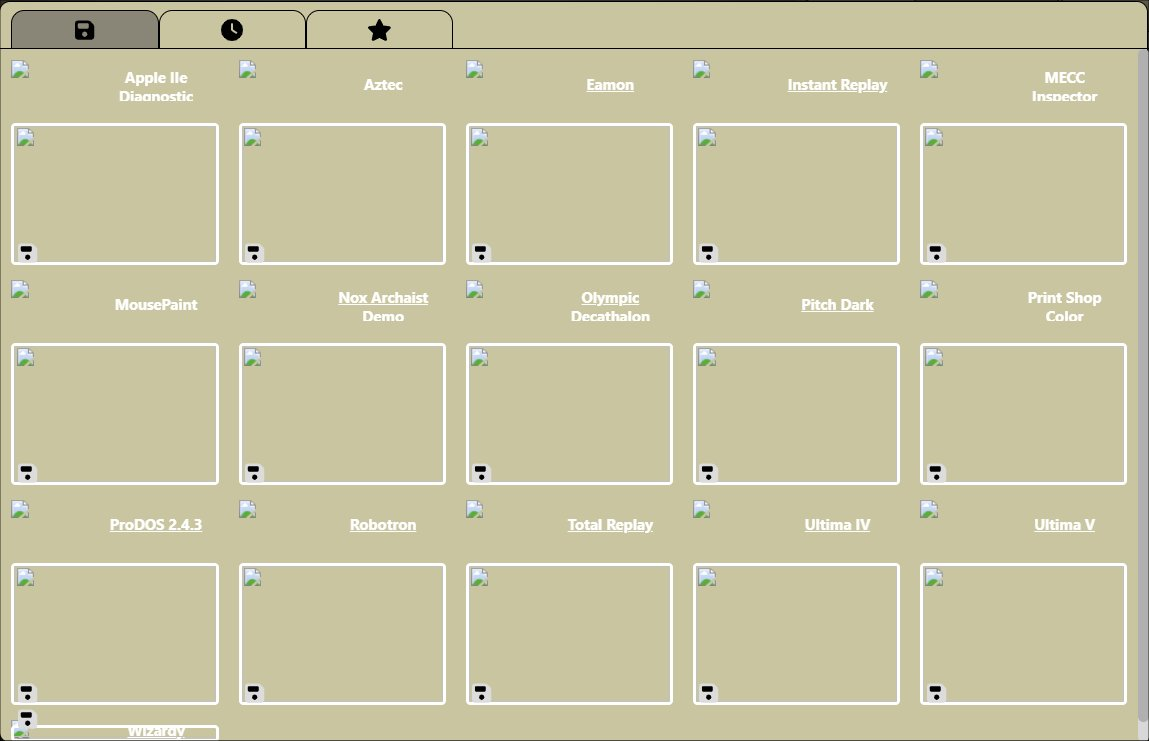
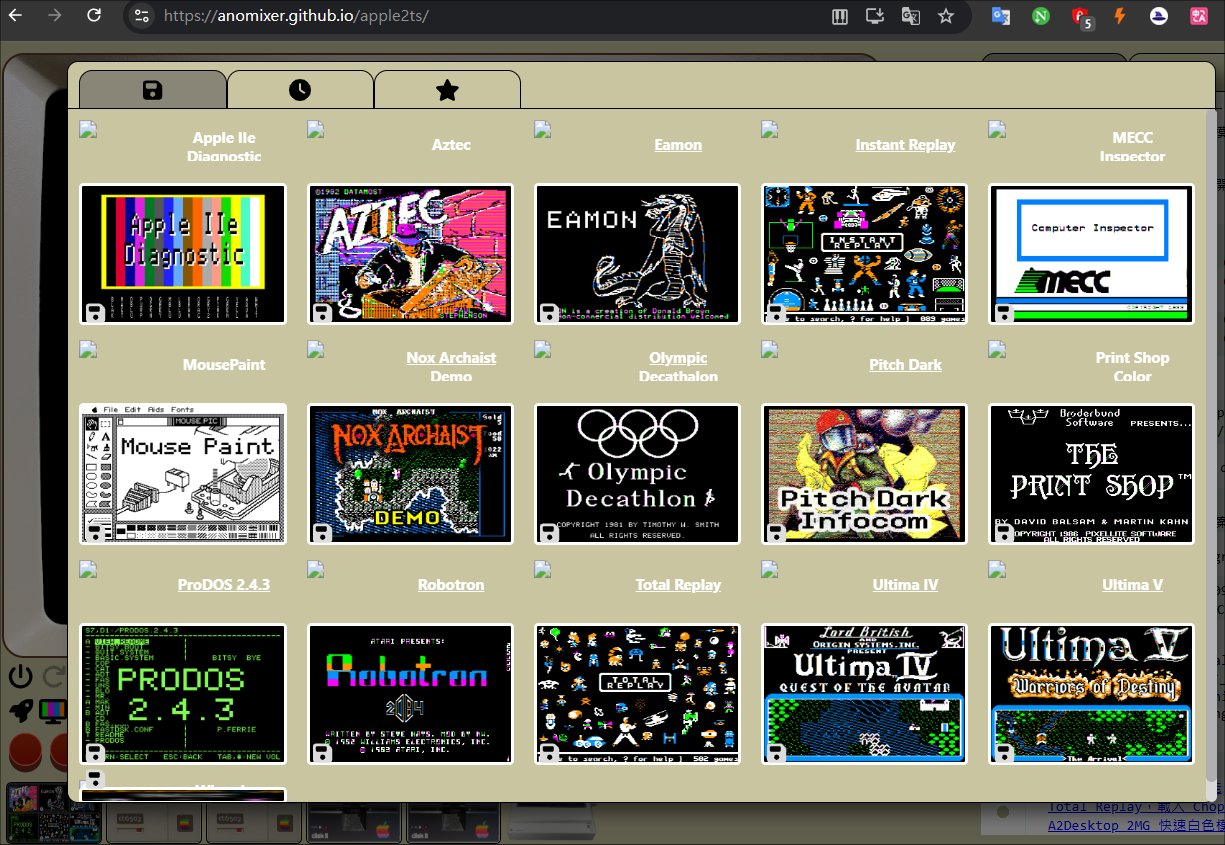
Fix disk loading mechanism for GitHub Pages
Critical fixes:
1. Revert diskUrl in diskimages.ts back to filename only (not full paths)
2. Fix handleSetDiskFromFile to use BASE_URL for disk and help file fetching
3. Keep image URLs using getImageUrl helper with BASE_URL
4. This maintains the original architecture while fixing GitHub Pages paths

The issue was that diskUrl should contain filename only, and handleSetDiskFromFile
adds the proper base path. The previous approach broke the disk loading logic.

diff --git a/src/ui/devices/disk/diskimages.ts b/src/ui/devices/disk/diskimages.ts
@@ -4,22 +4,17 @@ const getImageUrl = (path: string) => {
   return new URL(base + path, window.location.origin)
 }
 
-const getDiskUrl = (filename: string) => {
-  const base = import.meta.env.BASE_URL || '/'
-  return base + 'disks/' + filename
-}
-
 export const diskImages: DiskCollectionItem[] = [
   {
     title: "Aztec",
-    diskUrl: getDiskUrl("Aztec.po"),
+    diskUrl: "Aztec.po",
     imageUrl: getImageUrl("disks/Aztec.png"),
     type: undefined,
     lastUpdated: new Date(0),
   },
   {
     title: "Eamon",
-    diskUrl: getDiskUrl("Eamon%201.po"),
+    diskUrl: "Eamon%201.po",
     imageUrl: getImageUrl("disks/Eamon%201.png"),
     detailsUrl: new URL("https://eamon.wiki/Source:Eamon_Player%27s_Manual_(revised)"),
     type: undefined,
@@ -27,21 +22,21 @@ export const diskImages: DiskCollectionItem[] = [
   },
   {
     title: "Apple IIe Diagnostic",
-    diskUrl: getDiskUrl("Apple IIe Diagnostic 2.1.po"),
+    diskUrl: "Apple IIe Diagnostic 2.1.po",
     imageUrl: getImageUrl("disks/Apple IIe Diagnostic 2.1.png"),
     type: undefined,
     lastUpdated: new Date(0),
   },
   {
     title: "MECC Inspector",
-    diskUrl: getDiskUrl("MECC-Inspector.woz"),
+    diskUrl: "MECC-Inspector.woz",
     imageUrl: getImageUrl("disks/MECC-Inspector.png"),
     type: undefined,
     lastUpdated: new Date(0),
   },
   {
     title: "MousePaint",
-    diskUrl: getDiskUrl("MousePaint.woz"),
+    diskUrl: "MousePaint.woz",
     imageUrl: getImageUrl("disks/MousePaint.png"),
     type: undefined,
     lastUpdated: new Date(0),
@@ -49,7 +44,7 @@ export const diskImages: DiskCollectionItem[] = [
   },
   {
     title: "Nox Archaist Demo",
-    diskUrl: getDiskUrl("Nox%20Archaist%20Demo.hdv"),
+    diskUrl: "Nox%20Archaist%20Demo.hdv",
     imageUrl: getImageUrl("disks/Nox%20Archaist%20Demo.png"),
     detailsUrl: new URL("https://noxarchaist.com"),
     type: undefined,
@@ -57,7 +52,7 @@ export const diskImages: DiskCollectionItem[] = [
   },
   {
     title: "Olympic Decathalon",
-    diskUrl: getDiskUrl("Olympic%20Decathlon.woz"),
+    diskUrl: "Olympic%20Decathlon.woz",
     imageUrl: getImageUrl("disks/Olympic%20Decathlon.png"),
     detailsUrl: new URL("https://archive.org/details/microsoft-olympic-decathlon-a2-ph/"),
     type: undefined,
@@ -65,14 +60,14 @@ export const diskImages: DiskCollectionItem[] = [
   },
   {
     title: "Print Shop Color",
-    diskUrl: getDiskUrl("Print%20Shop%20Color.po"),
+    diskUrl: "Print%20Shop%20Color.po",
     imageUrl: getImageUrl("disks/Print%20Shop%20Color.png"),
     type: undefined,
     lastUpdated: new Date(0),
   },
   {
     title: "ProDOS 2.4.3",
-    diskUrl: getDiskUrl("ProDOS%202.4.3.po"),
+    diskUrl: "ProDOS%202.4.3.po",
     imageUrl: getImageUrl("disks/ProDOS%202.4.3.png"),
     detailsUrl: new URL("https://prodos8.com/"),
     type: undefined,
@@ -80,7 +75,7 @@ export const diskImages: DiskCollectionItem[] = [
   },
   {
     title: "Robotron",
-    diskUrl: getDiskUrl("Robotron4Joy.po"),
+    diskUrl: "Robotron4Joy.po",
     imageUrl: getImageUrl("disks/Robotron4Joy.png"),
     detailsUrl: new URL("https://groups.google.com/g/comp.sys.apple2/c/2xlihijn82o/"),
     type: undefined,
@@ -88,7 +83,7 @@ export const diskImages: DiskCollectionItem[] = [
   },
   {
     title: "Total Replay",
-    diskUrl: getDiskUrl("Total%20Replay.hdv"),
+    diskUrl: "Total%20Replay.hdv",
     imageUrl: getImageUrl("disks/Total%20Replay.png"),
     detailsUrl: new URL("https://archive.org/details/TotalReplay"),
     type: undefined,
@@ -96,7 +91,7 @@ export const diskImages: DiskCollectionItem[] = [
   },
   {
     title: "Instant Replay",
-    diskUrl: getDiskUrl("Instant%20Replay.hdv"),
+    diskUrl: "Instant%20Replay.hdv",
     imageUrl: getImageUrl("disks/Instant%20Replay.png"),
     detailsUrl: new URL("https://github.com/a2-4am/4sports"),
     type: undefined,
@@ -104,7 +99,7 @@ export const diskImages: DiskCollectionItem[] = [
   },
   {
     title: "Pitch Dark",
-    diskUrl: getDiskUrl("Pitch%20Dark.hdv"),
+    diskUrl: "Pitch%20Dark.hdv",
     imageUrl: getImageUrl("disks/Pitch%20Dark.png"),
     detailsUrl: new URL("https://archive.org/details/PitchDark"),
     type: undefined,
@@ -112,7 +107,7 @@ export const diskImages: DiskCollectionItem[] = [
   },
   {
     title: "Ultima IV",
-    diskUrl: getDiskUrl("Ultima%20IV.hdv"),
+    diskUrl: "Ultima%20IV.hdv",
     imageUrl: getImageUrl("disks/Ultima%20IV.png"),
     detailsUrl: new URL("https://wiki.ultimacodex.com/wiki/Ultima_IV:_Quest_of_the_Avatar"),
     type: undefined,
@@ -120,7 +115,7 @@ export const diskImages: DiskCollectionItem[] = [
   },
   {
     title: "Ultima V",
-    diskUrl: getDiskUrl("Ultima%20V.hdv"),
+    diskUrl: "Ultima%20V.hdv",
     imageUrl: getImageUrl("disks/Ultima%20V.png"),
     detailsUrl: new URL("https://wiki.ultimacodex.com/wiki/Ultima_V:_Warriors_of_Destiny"),
     type: undefined,
@@ -128,7 +123,7 @@ export const diskImages: DiskCollectionItem[] = [
   },
   {
     title: "Wizardy Replay v1.1",
-    diskUrl: getDiskUrl("Wizard%20Replay%20v1.1.hdv"),
+    diskUrl: "Wizard%20Replay%20v1.1.hdv",
     imageUrl: getImageUrl("disks/Wizard%20Replay%20v1.1.png"),
     detailsUrl: new URL("https://archive.org/details/WizardReplay"),
     type: undefined,

diff --git a/src/ui/devices/disk/driveprops.ts b/src/ui/devices/disk/driveprops.ts
@@ -365,8 +365,13 @@ const resetAllDiskDrives = () => {
 export const handleSetDiskFromFile = async (disk: string,
   updateDisplay: UpdateDisplay, driveIndex: number = 0) => {
   let data: ArrayBuffer
+  
+  // Get the base URL for the application
+  const base = import.meta.env.BASE_URL || '/'
+  const diskUrl = base + 'disks/' + disk
+  
   try {
-    const res = await fetch("/disks/" + disk)
+    const res = await fetch(diskUrl)
     data = await res.arrayBuffer()
   } catch {
    return
@@ -375,8 +380,9 @@ export const handleSetDiskFromFile = async (disk: string,
   handleSetDiskData(driveIndex, new Uint8Array(data), disk, null, null, -1)
   passSetRunMode(RUN_MODE.NEED_BOOT)
   const helpFile = replaceSuffix(disk, "txt")
+  const helpUrl = base + 'disks/' + helpFile
   try {
-    const help = await fetch("/disks/" + helpFile, { credentials: "include", redirect: "error" })
+    const help = await fetch(helpUrl, { credentials: "include", redirect: "error" })
     let helptext = "<Default>"
     if (help.ok) {
       helptext = await help.text()
